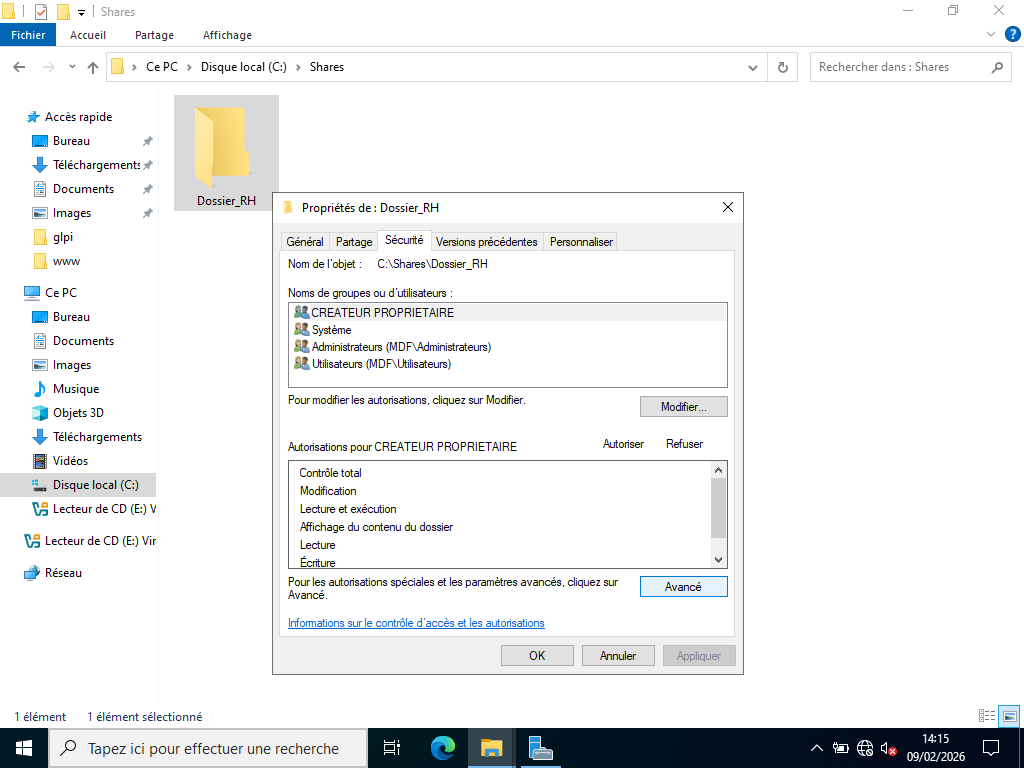
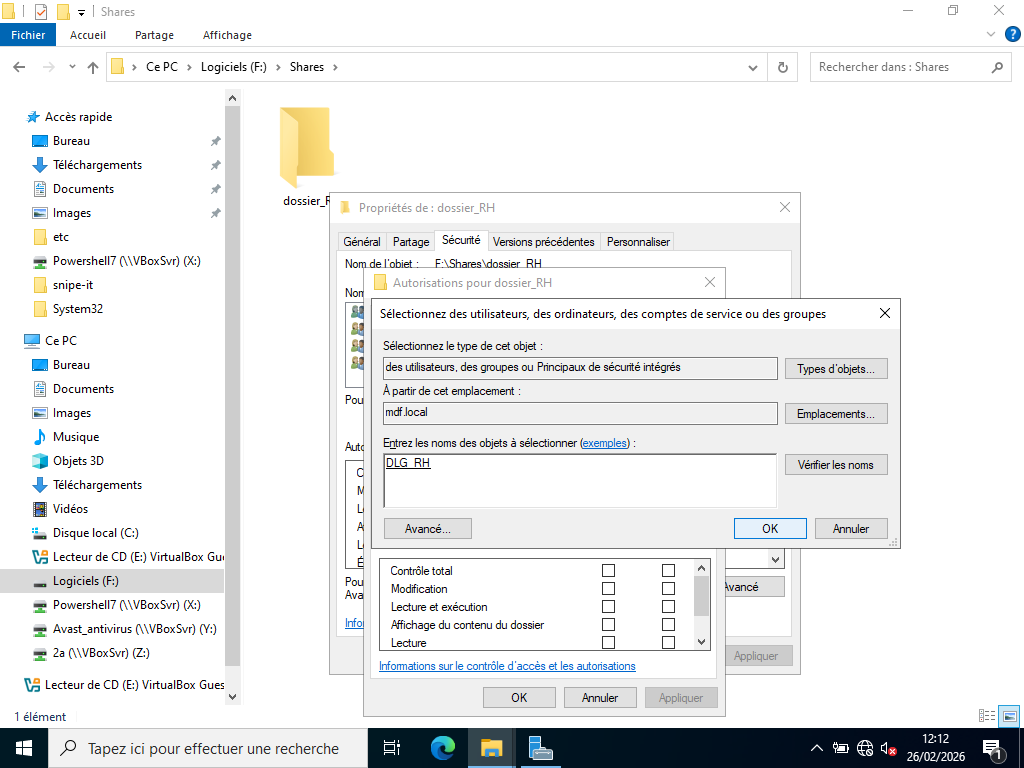
mise à jour

diff --git a/Readme.md b/Readme.md
@@ -310,6 +310,11 @@
 
 ### Droits de partages SMB
 
+| Groupes                | Rôles                 | Droits               |                      
+|------------------------|-----------------------|----------------------|
+| domaine computers      | PC du domaine         | lecture              |
+| DLG_RH                 | Groupe du domaine     | lecture              |
+
 <p align="center">
 
 <img src="SMB/01.png" width="400">
@@ -332,6 +337,32 @@
 
 ### Permissions NTFS
 
+| Groupes                | Rôles                 | Droit                |                      
+|------------------------|-----------------------|----------------------|
+| Administrateurs        | Admis du serveur      | Contrôle total       | 
+| SYSTEM                 | Windows/GPO/Services  | Contrôle total       | 
+| CREATEUR PROPRIETE     | Gestion automatique   | par défaut           | 
+| Utilisateurs           | Compte locaux/domaine | lecture et exécution |                     
+| domaine computers      | PC du domaine         | lecture et exécution |
+| DLG_RH                 | Groupe du domaine     | lecture              |
+
+Activation de l'héritage :
+
+<p align="center">
+
+<img src="heritage/01.png" width="400">
+
+<img src="heritage/02.png" width="400">
+
+<img src="heritage/03.png" width="400">
+
+<img src="heritage/04.png" width="400">
+
+</p>
+
+
+Permission :
+
 <p align="center">
 
 <img src="permission_NTFS/01.png" width="400">
@@ -346,25 +377,35 @@
 
 <img src="permission_NTFS/06.png" width="400">
 
-<img src="permission_NTFS/07.png" width="400">
-
-<img src="permission_NTFS/08.png" width="400">
-
-<img src="permission_NTFS/09.png" width="400">
-
-<img src="permission_NTFS/10.png" width="400">
-
-<img src="permission_NTFS/11.png" width="400">
-
 </p>
 
-### 4. Exécution d'un script PowerShell de vérification automatique des habilitations
+
+### 4. Vérification automatique des habilitations à partir de PowerShell
+
+Vérification des droits de partages :
 
 <p align="center">
 
-<img src="script/01.png" width="400">
+<img src="powershell/01.png" width="400">
 
 </p>
+
+Vérification des permissions NTFS :
+
+<p align="center">
+
+<img src="powershell/02.png" width="400">
+
+</p>
+
+Vérification de l'héritage :
+
+<p align="center">
+
+<img src="powershell/03.png" width="400">
+
+</p>
+
 
 ### 5. Tester la connexion avec un utilisateur RH
 
